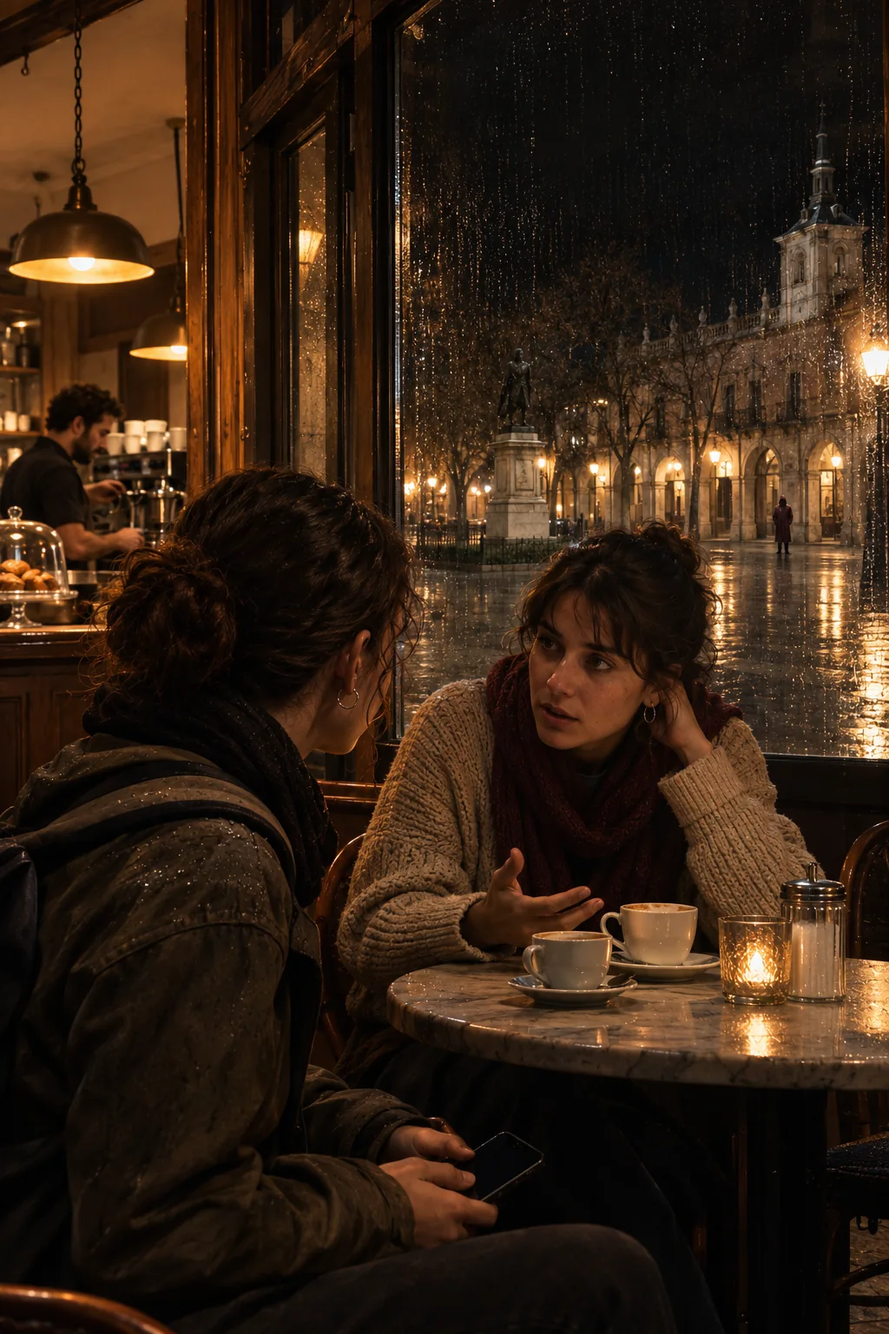
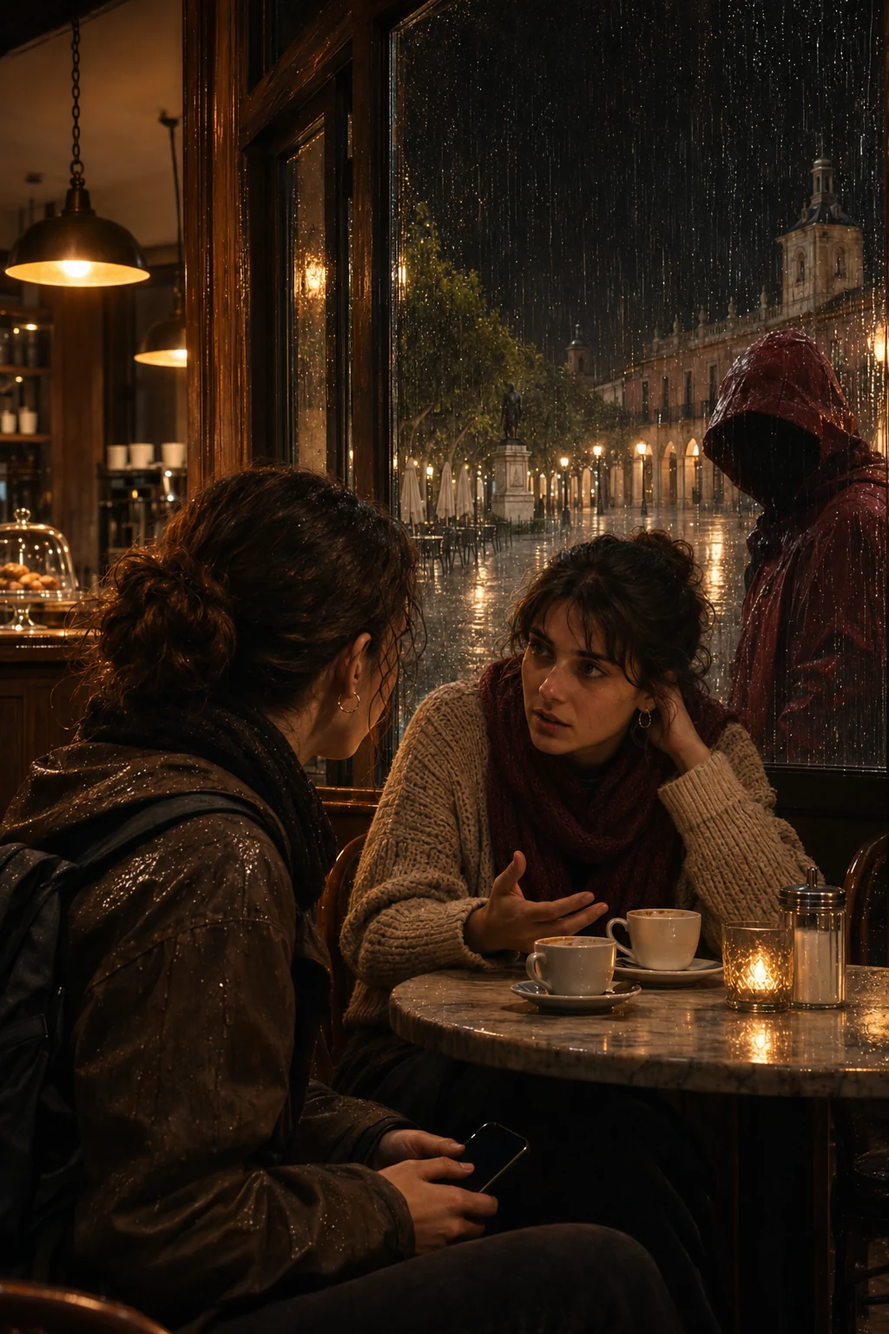
Rebuild Alcalá story scenes and continuity

diff --git a/script.js b/script.js
@@ -64,98 +64,94 @@ const copy = (es, en) => () => localized(es, en);
 
 const scenes = [
   {
-    image: 'assets/story/alcala-night.webp',
-    place: copy('CALLE MAYOR · CASA CERVANTES', 'CALLE MAYOR · CERVANTES BIRTHPLACE MUSEUM'),
-    kicker: copy('CALLE MAYOR · 23:17', 'CALLE MAYOR · 11:17 P.M.'),
-    title: copy('¿Subes esta foto ahora?', 'Do you post this photo now?'),
-    exploreHint: copy('Toca a la protagonista, la Casa Cervantes o al Cartógrafo. La pista aparecerá debajo.', 'Tap the woman, Cervantes House or the Cartographer. The clue will appear below.'),
-    body: copy('Son las 23:17. Estás en la Calle Mayor, frente a la Casa Natal de Cervantes, número 48. La foto puede mostrar dónde estás, aunque no añadas la ubicación.', 'It is 11:17 p.m. You are on Calle Mayor, outside Cervantes Birthplace Museum at number 48. The photo can show where you are, even without a location tag.'),
-    prompt: copy('La foto muestra dónde estás. ¿Qué haces?', 'The photo shows where you are. What do you do?'),
+    image: 'assets/story/alcala-night.webp?v=alcala-casa-20261124',
+    place: copy('CALLE MAYOR 48 \u00b7 CASA NATAL DE CERVANTES', '48 CALLE MAYOR \u00b7 CERVANTES BIRTHPLACE MUSEUM'),
+    kicker: copy('CALLE MAYOR \u00b7 23:17', 'CALLE MAYOR \u00b7 11:17 P.M.'),
+    title: copy('\u00bfPublicas la foto?', 'Do you post the photo?'),
+    exploreHint: copy('Toca la c\u00e1mara, la fachada o al Cart\u00f3grafo. Cada toque revela una pista.', 'Tap the camera, the fa\u00e7ade or the Cartographer. Each tap reveals a clue.'),
+    body: copy('Son las 23:17. Est\u00e1s frente a la Casa Natal de Cervantes, en el n\u00famero 48 de Calle Mayor. Has fotografiado la fachada. La hora y lo que aparece detr\u00e1s pueden revelar d\u00f3nde est\u00e1s.', 'It is 11:17 p.m. You are outside Cervantes Birthplace Museum at 48 Calle Mayor. You took a photo of the fa\u00e7ade. The time and background can reveal where you are.'),
+    prompt: copy('\u00bfQu\u00e9 haces con la foto?', 'What do you do with the photo?'),
     hotspots: [
-      { id: 'protagonist', label: copy('Tú', 'You'), x: 20, y: 45, align: 'right', response: copy('¡Flash! El Cartógrafo te acaba de hacer una foto desde el otro lado de la calle. Tú decides qué publicas y a quién pides ayuda.', 'Flash! The Cartographer just took your picture from across the street. You choose what to post and who to ask for help.') },
-      { id: 'landmark', label: copy('Casa Cervantes', 'Cervantes House'), x: 53, y: 46, align: 'center', response: copy('Estás frente a la Casa Natal de Cervantes, en Calle Mayor 48. El edificio muestra dónde hiciste la foto, aunque quites la ubicación.', 'You are outside Cervantes Birthplace Museum at 48 Calle Mayor. The building shows where you took the photo, even if you remove the location tag.') },
-      { id: 'cartographer', label: copy('El Cartógrafo', 'The Cartographer'), x: 74, y: 57, align: 'left', response: copy('Lo señalas. Se ríe. Parpadeas y ahora aparece detrás de ti, en el reflejo de una ventana. Sabe que lo has visto.', 'You point at him. He laughs. You blink, and now he is behind you in a window reflection. He knows you saw him.') }
+      { id: 'protagonist', label: copy('Tu m\u00f3vil', 'Your phone'), x: 28, y: 62, align: 'right', response: copy('El obturador suena en la calle mojada. En la foto quedan la fachada y la hora.', 'The shutter cuts through the wet street. The fa\u00e7ade and time are now in the photo.') },
+      { id: 'landmark', label: copy('La Casa de Cervantes', 'Cervantes House'), x: 51, y: 45, align: 'center', response: copy('La fachada de ladrillo y las figuras de bronce identifican la Casa Natal de Cervantes, en Calle Mayor 48.', 'The brick fa\u00e7ade and bronze figures identify Cervantes Birthplace Museum at 48 Calle Mayor.') },
+      { id: 'cartographer', label: copy('El Cart\u00f3grafo', 'The Cartographer'), x: 82, y: 48, align: 'left', response: copy('Levanta la cabeza bajo la capucha. No ves su cara. Una risa breve se mezcla con la lluvia.', 'He raises his hooded head. You cannot see his face. A short laugh blends into the rain.') }
     ],
     choices: [
-      { id: 'live-location', risk: 1, label: copy('Publicarla ahora y mostrar dónde estoy', 'Post it now and show where I am') },
-      { id: 'remove-location', risk: 0, label: copy('Publicarla sin decir dónde estoy', 'Post it without saying where I am') }
+      { id: 'live-location', risk: 1, label: copy('Publicarla ahora con mi ubicaci\u00f3n en directo', 'Post it now with my live location') },
+      { id: 'remove-location', risk: 0, label: copy('Quitar la ubicaci\u00f3n y publicarla sin etiqueta', 'Remove the location tag before posting') }
     ]
   },
   {
-    image: 'assets/story/alcala-reflection.webp?v=single-cartographer-20261124',
-    place: copy('CALLE MAYOR · CERCA DE CASA CERVANTES', 'CALLE MAYOR · NEAR CERVANTES HOUSE'),
-    kicker: copy('CALLE MAYOR · 23:24', 'CALLE MAYOR · 11:24 P.M.'),
-    title: copy('«Sé a qué hora vuelves».', '“I know what time you go home.”'),
-    exploreHint: copy('Toca sobre el móvil, la protagonista o el reflejo rojo. La pista aparecerá debajo.', 'Tap the phone, the woman or the red reflection. The clue will appear below.'),
-    body: () => cartographerNoticed
-        ? localized('Lo señalaste. Ahora aparece más cerca, en una ventana de la Calle Mayor. Te llega un mensaje: «Sé a qué hora vuelves».', 'You pointed him out. Now he appears closer, in a Calle Mayor window. A message arrives: “I know what time you go home.”')
-      : riskScore
-        ? localized('Publicaste la hora y el lugar. Frente a la Casa Natal te llega un mensaje: «Sé a qué hora vuelves».', 'You posted the time and place. Outside Cervantes House, a message arrives: “I know what time you go home.”')
-        : localized('Quitaste la ubicación, pero la foto muestra el lugar y la hora. Frente a la Casa Natal te llega un mensaje: «Sé a qué hora vuelves».', 'You removed the location tag, but the photo shows the place and time. Outside Cervantes House, a message arrives: “I know what time you go home.”'),
-    prompt: copy('Te pregunta a qué hora sales. ¿Se lo dices?', 'He asks what time you leave. Do you tell him?'),
+    image: 'assets/story/alcala-reflection.webp?v=alcala-mayor-20261124',
+    place: copy('CALLE MAYOR \u00b7 BAJO LOS SOPORTALES', 'CALLE MAYOR \u00b7 UNDER THE ARCADES'),
+    kicker: copy('CALLE MAYOR \u00b7 23:24', 'CALLE MAYOR \u00b7 11:24 P.M.'),
+    title: copy('\u00abS\u00e9 a qu\u00e9 hora vuelves\u00bb.', 'I know what time you come back.'),
+    exploreHint: copy('Toca el m\u00f3vil, a la protagonista o el reflejo rojo. La pista aparece debajo.', 'Tap the phone, the woman or the red reflection. The clue appears below.'),
+    body: () => riskScore > 0
+      ? localized('Sigues por los soportales de Calle Mayor. Publicaste la ubicaci\u00f3n en directo y una cuenta desconocida responde a tu historia: \u00abS\u00e9 a qu\u00e9 hora vuelves\u00bb.', 'You keep walking under Calle Mayor arcades. You shared your live location, and an unknown account replies to your story: I know what time you come back.')
+      : localized('Sigues por los soportales de Calle Mayor. Quitaste la etiqueta, pero la fachada y la hora siguen en la foto. Una cuenta desconocida responde: \u00abS\u00e9 a qu\u00e9 hora vuelves\u00bb.', 'You keep walking under Calle Mayor arcades. You removed the tag, but the fa\u00e7ade and time are still in the photo. An unknown account replies: I know what time you come back.'),
+    prompt: copy('Te pregunta a qu\u00e9 hora sales. \u00bfQu\u00e9 haces?', 'The account asks what time you leave. What do you do?'),
     hotspots: [
-      { id: 'protagonist', label: copy('Tú', 'You'), x: 20, y: 45, align: 'right', response: copy('Un destello cruza el cristal. Reconoces al Cartógrafo. No tienes que responder a su mensaje.', 'A flash crosses the glass. You recognize the Cartographer. You do not have to reply to his message.') },
-      { id: 'phone', label: copy('El móvil', 'The phone'), x: 51, y: 72, align: 'center', response: copy('El móvil vibra. La hora de la foto y el lugar pueden mostrar cuándo pasas por aquí. No hace falta entrar en tu móvil para saberlo.', 'Your phone buzzes. The photo time and place can show when you come here. No one needs to get into your phone to learn that.') },
-      { id: 'cartographer', label: copy('El reflejo', 'The reflection'), x: 79, y: 44, align: 'left', response: copy('Tocas el reflejo. Oyes su risa a tu espalda. En el cristal, se mueve antes que tú.', 'You touch the reflection. You hear him laugh behind you. In the glass, he moves before you do.') }
+      { id: 'protagonist', label: copy('T\u00fa', 'You'), x: 36, y: 63, align: 'right', response: copy('El reflejo rojo aparece a tu espalda. No tienes que contestar ni acercarte.', 'The red reflection appears behind you. You do not have to answer or go closer.') },
+      { id: 'phone', label: copy('El m\u00f3vil', 'The phone'), x: 62, y: 55, align: 'center', response: copy('El m\u00f3vil vibra. La foto muestra la hora y un lugar reconocible. Nadie ha entrado en tu tel\u00e9fono: basta con ver lo que publicaste.', 'Your phone vibrates. The photo shows the time and a recognizable place. No one accessed your phone; what you posted was enough.') },
+      { id: 'cartographer', label: copy('El reflejo', 'The reflection'), x: 86, y: 48, align: 'left', response: copy('Tocas el cristal. La figura roja se mueve antes que tu reflejo. Oyes una risa al otro lado de la ventana.', 'You touch the glass. The red figure moves before your reflection does. A laugh comes from the other side of the window.') }
     ],
     choices: [
-      { id: 'reply-routine', risk: 1, label: copy('Decirle a qué hora salgo', 'Tell him what time I leave') },
-      { id: 'block-save', risk: 0, label: copy('Guardar el mensaje y llamar a Paula', 'Save the message and call Paula') }
+      { id: 'reply-routine', risk: 1, label: copy('Decirle a qu\u00e9 hora suelo salir', 'Tell them what time I usually leave') },
+      { id: 'block-save', risk: 0, label: copy('Guardar el mensaje, bloquear la cuenta y llamar a Paula', 'Save the message, block the account and call Paula') }
     ]
   },
   {
-    image: 'assets/story/alcala-plaza-exterior.webp?v=wardrobe-rain-20261124',
+    image: 'assets/story/alcala-plaza-exterior.webp?v=alcala-plaza-20261124',
     ambience: 'street',
-    place: copy('PLAZA DE CERVANTES · CAFÉ ABIERTO', 'CERVANTES SQUARE · CAFÉ OPEN'),
-    kicker: copy('PLAZA DE CERVANTES · 23:32', 'CERVANTES SQUARE · 11:32 P.M.'),
-    title: copy('Hay un café abierto.', 'There is a café open.'),
-    exploreHint: copy('Toca el café, la protagonista o al Cartógrafo. La pista aparecerá debajo.', 'Tap the café, the woman or the Cartographer. The clue will appear below.'),
+    place: copy('PLAZA DE CERVANTES \u00b7 CAF\u00c9 DE LA PLAZA', 'PLAZA DE CERVANTES \u00b7 CAF\u00c9 ON THE SQUARE'),
+    kicker: copy('PLAZA DE CERVANTES \u00b7 23:32', 'PLAZA DE CERVANTES \u00b7 11:32 P.M.'),
+    title: copy('Paula ya viene.', 'Paula is on her way.'),
+    exploreHint: copy('Toca el caf\u00e9, el m\u00f3vil o la farola junto al Cart\u00f3grafo.', 'Tap the caf\u00e9, the phone or the lamppost beside the Cartographer.'),
     body: () => decisions.includes('block-save')
-      ? localized('Llegas a la Plaza de Cervantes. Paula te escribe: «Voy para allá. Espera dentro del café». El Cartógrafo te mira desde el otro lado de la plaza.', 'You reach Cervantes Square. Paula texts: “I’m coming. Wait inside the café.” The Cartographer watches you from across the square.')
-      : localized('Llegas a la Plaza de Cervantes. Hay un café abierto junto a la estatua. Nadie sabe que estás aquí. Te llega otro mensaje: «Te vi junto a la Casa de Cervantes».', 'You reach Cervantes Square. A café is open beside the statue. No one knows you are here. Another message arrives: “I saw you by Cervantes House.”'),
-    prompt: () => decisions.includes('block-save')
-      ? localized('Paula viene. ¿La esperas dentro del café o te vas sola?', 'Paula is coming. Do you wait inside the café or leave alone?')
-      : localized('El café está abierto. ¿Entras y llamas a Paula o te vas sola?', 'The café is open. Do you go in and call Paula or leave alone?'),
+      ? localized('Llegas a la Plaza de Cervantes. Ya llamaste a Paula y quedasteis en el caf\u00e9. Ella va de camino. Bajo los \u00e1rboles, ves al Cart\u00f3grafo junto a una farola.', 'You reach Plaza de Cervantes. You called Paula and agreed to meet at the caf\u00e9. She is on her way. Beneath the trees, you see the Cartographer beside a lamppost.')
+      : localized('Llegas a la Plaza de Cervantes. Le escribes a Paula y qued\u00e1is en el caf\u00e9. Ella va de camino. Bajo los \u00e1rboles, ves al Cart\u00f3grafo junto a una farola.', 'You reach Plaza de Cervantes. You message Paula and agree to meet at the caf\u00e9. She is on her way. Beneath the trees, you see the Cartographer beside a lamppost.'),
+    prompt: copy('\u00bfEsperas a Paula dentro o sigues sola?', 'Do you wait inside for Paula or keep walking alone?'),
     hotspots: [
-      { id: 'cafe', label: copy('El café', 'The café'), x: 21, y: 57, align: 'right', response: copy('La puerta del café se abre. Suena una campanilla. Hay gente dentro. Puedes pedir ayuda.', 'The café door opens. A bell rings. People are inside. You can ask for help.') },
-      { id: 'protagonist', label: copy('Tú', 'You'), x: 52, y: 75, align: 'center', response: copy('La plaza está iluminada. Puedes entrar al café y llamar a Paula.', 'The square is lit. You can go into the café and call Paula.') },
-      { id: 'cartographer', label: copy('El Cartógrafo', 'The Cartographer'), x: 75, y: 56, align: 'left', response: copy('La luz parpadea. Cuando vuelve, el Cartógrafo ya no está junto a la farola.', 'The light flickers. When it comes back on, the Cartographer is no longer by the lamp.') }
+      { id: 'cafe', label: copy('El caf\u00e9', 'The caf\u00e9'), x: 22, y: 59, align: 'right', response: copy('La puerta se abre y suena la campanilla. Hay clientes y personal dentro. Puedes esperar ah\u00ed a Paula.', 'The door opens and its bell rings. Customers and staff are inside. You can wait there for Paula.') },
+      { id: 'phone', label: copy('Tu m\u00f3vil', 'Your phone'), x: 35, y: 62, align: 'left', response: copy('Paula confirma que est\u00e1 a cinco minutos. Puedes compartir tu ubicaci\u00f3n solo con ella mientras llega.', 'Paula says she is five minutes away. You can share your location with her only while she gets here.') },
+      { id: 'cartographer', label: copy('La farola', 'The lamppost'), x: 78, y: 47, align: 'left', response: copy('La bombilla parpadea y zumba. Cuando la luz vuelve, el Cart\u00f3grafo ya no est\u00e1 junto a la farola.', 'The bulb flickers and buzzes. When the light returns, the Cartographer is no longer beside the lamppost.') }
     ],
-    choices: () => [
-      { id: 'go-cafe', risk: 0, label: copy(decisions.includes('block-save') ? 'Entrar al café y esperar a Paula' : 'Entrar al café y llamar a Paula', decisions.includes('block-save') ? 'Go into the café and wait for Paula' : 'Go into the café and call Paula') },
-      { id: 'take-shortcut', risk: 1, label: copy('Ir sola por Cardenal Sandoval y Rojas', 'Walk alone along Cardenal Sandoval y Rojas') }
+    choices: [
+      { id: 'go-cafe', risk: 0, label: copy('Entrar al caf\u00e9 y esperar a Paula', 'Go into the caf\u00e9 and wait for Paula') },
+      { id: 'take-shortcut', risk: 1, label: copy('Seguir sola por Cardenal Sandoval y Rojas', 'Continue alone along Cardenal Sandoval y Rojas') }
     ]
   },
   {
-    image: () => decisions.includes('go-cafe') ? 'assets/story/alcala-cafe.webp' : 'assets/story/alcala-portal.webp?v=wardrobe-rain-20261124',
+    image: () => decisions.includes('go-cafe') ? 'assets/story/alcala-cafe.webp?v=alcala-cafe-20261124' : 'assets/story/alcala-portal.webp?v=alcala-puerta-20261124',
     ambience: () => decisions.includes('go-cafe') ? 'cafe' : 'street',
-    place: () => localized(decisions.includes('go-cafe') ? 'PLAZA DE CERVANTES · CAFÉ' : 'CALLE CARDENAL SANDOVAL Y ROJAS · PORTAL', decisions.includes('go-cafe') ? 'CERVANTES SQUARE · CAFÉ' : 'CARDENAL SANDOVAL Y ROJAS · DOORWAY'),
-    kicker: () => localized(decisions.includes('go-cafe') ? 'PLAZA DE CERVANTES · 23:38' : 'SANDOVAL Y ROJAS · 23:41', decisions.includes('go-cafe') ? 'CERVANTES SQUARE · 11:38 P.M.' : 'SANDOVAL Y ROJAS · 11:41 P.M.'),
-    title: () => localized(decisions.includes('go-cafe') ? 'No estás sola.' : 'El atajo termina en una puerta.', decisions.includes('go-cafe') ? 'You are not alone.' : 'The shortcut ends at a doorway.'),
+    place: () => localized(decisions.includes('go-cafe') ? 'PLAZA DE CERVANTES \u00b7 CAF\u00c9' : 'PASEO CARDENAL SANDOVAL Y ROJAS \u00b7 PUERTA DE MADRID', decisions.includes('go-cafe') ? 'PLAZA DE CERVANTES \u00b7 CAF\u00c9' : 'PASEO CARDENAL SANDOVAL Y ROJAS \u00b7 PUERTA DE MADRID'),
+    kicker: () => localized(decisions.includes('go-cafe') ? 'PLAZA DE CERVANTES \u00b7 23:38' : 'PUERTA DE MADRID \u00b7 23:41', decisions.includes('go-cafe') ? 'PLAZA DE CERVANTES \u00b7 11:38 P.M.' : 'PUERTA DE MADRID \u00b7 11:41 P.M.'),
+    title: () => localized(decisions.includes('go-cafe') ? 'Paula est\u00e1 contigo.' : 'La farola falla.', decisions.includes('go-cafe') ? 'Paula is with you.' : 'The lamppost falters.'),
     exploreHint: () => decisions.includes('go-cafe')
-      ? localized('Toca a Paula, el mensaje o la ventana. La pista aparecerá debajo.', 'Tap Paula, the message or the window. The clue will appear below.')
-      : localized('Toca la puerta, la protagonista o al Cartógrafo. La pista aparecerá debajo.', 'Tap the door, the woman or the Cartographer. The clue will appear below.'),
+      ? localized('Toca a Paula, el mensaje o la ventana. Cada toque activa una pista.', 'Tap Paula, the message or the window. Each tap reveals a clue.')
+      : localized('Toca el arco, a la protagonista o al Cart\u00f3grafo. Cada toque activa una pista.', 'Tap the arch, the woman or the Cartographer. Each tap reveals a clue.'),
     body: () => decisions.includes('go-cafe')
-      ? localized('Entras al café. Paula llega y se sienta contigo. Puedes compartir tu ubicación solo con ella hasta llegar a casa.', 'You go into the café. Paula arrives and sits with you. You can share your location with her only until you get home.')
-      : localized('Vas por Cardenal Sandoval y Rojas. El portal está abierto, oscuro y vacío. La foto y la hora dieron pistas al Cartógrafo. Puedes volver a la plaza, donde hay luz y gente.', 'You walk along Cardenal Sandoval y Rojas. The doorway is open, dark and empty. The photo and time gave the Cartographer clues. You can return to the lit, busy square.'),
+      ? localized('Entras al caf\u00e9 de la Plaza de Cervantes. Paula llega y se sienta contigo. A trav\u00e9s del cristal ves al Cart\u00f3grafo fuera, bajo la lluvia. Puedes compartir tu ubicaci\u00f3n solo con Paula hasta llegar a casa.', 'You enter the caf\u00e9 on Plaza de Cervantes. Paula arrives and sits with you. Through the glass, you see the Cartographer outside in the rain. You can share your location only with Paula until you get home.')
+      : localized('Sigues por el Paseo de Cardenal Sandoval y Rojas hasta la Puerta de Madrid. El arco de piedra aparece al final del paseo. La farola parpadea y una sombra roja cruza el otro lado. Puedes volver hacia la plaza y buscar a Paula.', 'You follow Paseo de Cardenal Sandoval y Rojas to Puerta de Madrid. The stone arch appears at the end of the promenade. The lamppost flickers and a red shadow crosses the other side. You can turn back toward the square and find Paula.'),
     prompt: () => decisions.includes('go-cafe')
-      ? localized('Paula te escribe otra vez. ¿Qué haces?', 'Paula texts you again. What do you do?')
-      : localized('Llegas al portal. ¿Qué haces?', 'You reach the doorway. What do you do?'),
+      ? localized('Paula est\u00e1 a tu lado. \u00bfQu\u00e9 haces con el mensaje?', 'Paula is beside you. What do you do with the message?')
+      : localized('Est\u00e1s frente a la Puerta de Madrid. \u00bfQu\u00e9 haces?', 'You are at Puerta de Madrid. What do you do?'),
     hotspots: () => decisions.includes('go-cafe') ? [
-      { id: 'friend', label: copy('Paula', 'Paula'), x: 60, y: 58, align: 'right', response: copy('Paula se queda contigo. Cuéntale qué pasó y qué necesitas. No tienes que darle tus contraseñas.', 'Paula stays with you. Tell her what happened and what you need. You do not need to give her your passwords.') },
-      { id: 'phone', label: copy('El mensaje', 'The message'), x: 28, y: 84, align: 'left', response: copy('El mensaje pregunta dónde estás. No contestes. Guarda una captura.', 'The message asks where you are. Do not reply. Save a screenshot.') },
-      { id: 'cartographer', label: copy('La ventana', 'The window'), x: 88, y: 45, align: 'left', response: copy('Oyes pasos que se alejan. Publicar una foto no da permiso para seguirte. La responsabilidad es de quien te sigue.', 'You hear footsteps fading away. Posting a photo does not give anyone permission to follow you. The person following you is responsible.') }
+      { id: 'friend', label: copy('Paula', 'Paula'), x: 62, y: 57, align: 'right', response: copy('Paula se queda contigo. Cu\u00e9ntale qu\u00e9 pas\u00f3 y qu\u00e9 necesitas. No tienes que compartir tus contrase\u00f1as.', 'Paula stays with you. Tell her what happened and what you need. You do not have to share your passwords.') },
+      { id: 'phone', label: copy('El mensaje', 'The message'), x: 29, y: 86, align: 'left', response: copy('Guarda una captura y bloquea la cuenta. El mensaje no le da derecho a acercarse a ti.', 'Save a screenshot and block the account. The message does not give them the right to approach you.') },
+      { id: 'cartographer', label: copy('La ventana', 'The window'), x: 88, y: 46, align: 'left', response: copy('Los pasos se alejan por la plaza. Publicar una foto no da permiso para seguirte. La responsabilidad es de quien te sigue.', 'Footsteps fade across the square. Posting a photo does not give anyone permission to follow you. The person following you is responsible.') }
     ] : [
-      { id: 'protagonist', label: copy('Tú', 'You'), x: 22, y: 47, align: 'right', response: copy('Aléjate del portal. Llama a Paula y vuelve a la plaza iluminada.', 'Step away from the doorway. Call Paula and return to the lit square.') },
-      { id: 'door', label: copy('La puerta', 'The door'), x: 88, y: 69, align: 'left', response: copy('La puerta se abre un poco. Dentro está oscuro. Puedes volver a la plaza o ir al café, donde hay gente.', 'The door opens a little. It is dark inside. You can return to the square or go to the café, where there are people.') },
-      { id: 'cartographer', label: copy('El Cartógrafo', 'The Cartographer'), x: 65, y: 49, align: 'left', response: copy('Oyes su respiración bajo la capucha. Está al otro lado de la calle. Solo sabe lo que has compartido; no puede leer tu móvil.', 'You hear him breathe under the hood. He is across the street. He only knows what you have shared; he cannot read your phone.') }
+      { id: 'protagonist', label: copy('T\u00fa', 'You'), x: 27, y: 68, align: 'right', response: copy('Gira hacia la plaza iluminada. Llama a Paula y vuelve por el paseo, donde hay m\u00e1s gente.', 'Turn back toward the lit square. Call Paula and return along the promenade, where more people are around.') },
+      { id: 'gate', label: copy('Puerta de Madrid', 'Puerta de Madrid'), x: 52, y: 38, align: 'center', response: copy('El arco est\u00e1 abierto a la calle. La farola falla y una sombra roja cruza el otro lado. No tienes que seguir adelante.', 'The arch opens onto the street. The lamppost falters and a red shadow crosses the other side. You do not have to go on.') },
+      { id: 'cartographer', label: copy('El Cart\u00f3grafo', 'The Cartographer'), x: 60, y: 62, align: 'left', response: copy('Su respiraci\u00f3n llega desde el otro lado del arco. Bajo la capucha no hay un rostro visible. Retrocede hacia la plaza y llama a Paula.', 'You hear him breathe from the other side of the arch. His face is hidden under the hood. Step back toward the square and call Paula.') }
     ],
     choices: () => decisions.includes('go-cafe') ? [
-      { id: 'share-private', risk: 0, label: copy('Guardar el mensaje y compartir mi ubicación solo con Paula', 'Save the message and share my location with Paula only') },
-      { id: 'post-cafe', risk: 1, label: copy('Publicar otra foto del café ahora', 'Post another photo of the café now') }
+      { id: 'share-private', risk: 0, label: copy('Guardar el mensaje y compartir mi ubicaci\u00f3n solo con Paula', 'Save the message and share my location with Paula only') },
+      { id: 'post-cafe', risk: 1, label: copy('Publicar otra foto del caf\u00e9 ahora', 'Post another photo of the caf\u00e9 now') }
     ] : [
-      { id: 'return-light', risk: 0, label: copy('Volver a la plaza e ir al café para llamar a Paula', 'Return to the square and go to the café to call Paula') },
-      { id: 'open-portal', risk: 1, label: copy('Entrar sola en el portal para esconderme', 'Go into the doorway alone to hide') }
+      { id: 'return-light', risk: 0, label: copy('Volver a la plaza y llamar a Paula', 'Return to the square and call Paula') },
+      { id: 'open-portal', risk: 1, label: copy('Seguir sola bajo el arco de la Puerta de Madrid', 'Continue alone beneath the Puerta de Madrid arch') }
     ]
   }
 ];
@@ -422,7 +418,6 @@ function scheduleSceneAudio(index) {
     queueSceneAudio(index, 2400, 'coffeeCup', 0.34);
   } else if (index === 3) {
     queueSceneAudio(index, 1200, 'suspenseAmbience', 0.17);
-    queueSceneAudio(index, 3100, 'doorCreak', 0.28);
     queueSceneAudio(index, 6500, 'cartographerBreath', 0.36);
     queueSceneAudio(index, 12400, 'footsteps', 0.32);
   }
@@ -482,8 +477,8 @@ function triggerPhotoReaction(button, hotspot) {
 
 function showLampFailure() {
   window.clearTimeout(sceneInterruptionEffectTimer);
-  sceneImageWrap.style.setProperty('--lamp-x', '76%');
-  sceneImageWrap.style.setProperty('--lamp-y', '37%');
+  sceneImageWrap.style.setProperty('--lamp-x', currentScene === 3 && !decisions.includes('go-cafe') ? '15%' : '79%');
+  sceneImageWrap.style.setProperty('--lamp-y', currentScene === 2 ? '14%' : currentScene === 3 && !decisions.includes('go-cafe') ? '42%' : '37%');
   sceneImageWrap.classList.remove('is-lamp-failure');
   void sceneImageWrap.offsetWidth;
   sceneImageWrap.classList.add('is-lamp-failure');
@@ -494,8 +489,8 @@ function scheduleSceneInterruption(index) {
   const interruption = [
     {
       delay: 2600,
-      title: copy('FLASH AL OTRO LADO DE LA CALLE', 'A FLASH ACROSS THE STREET'),
-      message: copy('El Cartógrafo acaba de hacerte una foto.', 'The Cartographer has just taken your picture.'),
+      title: copy('EL OBTURADOR CORTA LA LLUVIA', 'THE SHUTTER CUTS THROUGH THE RAIN'),
+      message: copy('La fachada y la hora quedan en la imagen.', 'The fa\u00e7ade and time are now in the image.'),
       effect: 'flash',
       sound: 'camera'
     },
@@ -516,7 +511,7 @@ function scheduleSceneInterruption(index) {
     decisions.includes('take-shortcut') ? {
       delay: 1800,
       title: copy('LA FAROLA FALLA', 'THE STREETLIGHT FALTERS'),
-      message: copy('Algo se mueve al otro lado del portal.', 'Something moves across the doorway.'),
+      message: copy('La farola se apaga. Una sombra roja cruza el arco.', 'The lamppost goes dark. A red shadow crosses the arch.'),
       effect: 'lamp',
       sound: 'lamp'
     } : null
@@ -527,7 +522,8 @@ function scheduleSceneInterruption(index) {
     if (story.hidden || document.hidden || currentScene !== index) return;
     if ((index === 0 && activeHotspotId === 'protagonist')
       || (index === 1 && activeHotspotId === 'phone')
-      || (index === 3 && activeHotspotId === 'cartographer')) return;
+      || (index === 2 && activeHotspotId === 'cartographer')
+      || (index === 3 && ['cartographer', 'gate'].includes(activeHotspotId))) return;
 
     const label = document.createElement('span');
     label.className = 'scene-interruption__label';
@@ -644,44 +640,44 @@ function renderEnding({ languageRefresh = false } = {}) {
   textLayoutController = undefined;
   const endedInCafe = ['share-private', 'post-cafe', 'return-light'].includes(lastDecision);
   const choseSupport = ['share-private', 'return-light'].includes(lastDecision);
-  const finalImage = endedInCafe ? 'assets/story/alcala-cafe.webp' : 'assets/story/alcala-portal.webp?v=wardrobe-rain-20261124';
+  const finalImage = endedInCafe ? 'assets/story/alcala-cafe.webp?v=alcala-cafe-20261124' : 'assets/story/alcala-portal.webp?v=alcala-puerta-20261124';
   if (!languageRefresh) setAmbientTrack(endedInCafe ? 'cafe' : 'street');
   endingBackdrop.style.backgroundImage = `url("${finalImage}")`;
-  endingKicker.textContent = localized(endedInCafe ? 'PLAZA DE CERVANTES · CAFÉ · 23:48' : 'CARDENAL SANDOVAL Y ROJAS · 23:48', endedInCafe ? 'CERVANTES SQUARE · CAFÉ · 11:48 P.M.' : 'CARDENAL SANDOVAL Y ROJAS · 11:48 P.M.');
+  endingKicker.textContent = localized(endedInCafe ? 'PLAZA DE CERVANTES \u00b7 CAF\u00c9 \u00b7 23:48' : 'PUERTA DE MADRID \u00b7 23:48', endedInCafe ? 'PLAZA DE CERVANTES \u00b7 CAF\u00c9 \u00b7 11:48 P.M.' : 'PUERTA DE MADRID \u00b7 11:48 P.M.');
   endingTitle.innerHTML = lastDecision === 'post-cafe'
     ? localized('La foto<br><em>da otra pista.</em>', 'The photo<br><em>gives another clue.</em>')
     : lastDecision === 'return-light'
       ? localized('Volviste<br><em>a la plaza.</em>', 'You went back<br><em>to the square.</em>')
       : choseSupport
         ? localized('Llegaste<br><em>con ayuda.</em>', 'You got there<br><em>with help.</em>')
-        : localized('Entraste sola<br><em>al portal.</em>', 'You went inside<br><em>alone.</em>');
+        : localized('Seguiste sola<br><em>bajo el arco.</em>', 'You continued<br><em>under the arch.</em>');
   endingOutcome.textContent = lastDecision === 'post-cafe'
-    ? localized('Publicaste otra foto. Se ve qué café es y a qué hora estás allí. Eso no te hace culpable. Nadie tiene derecho a seguirte.', 'You posted another photo. It shows which café you are at and what time it is. That does not make you guilty. No one has the right to follow you.')
+    ? localized('Publicaste otra foto desde el caf\u00e9 y se reconoce la Plaza. Eso no te hace culpable. Nadie tiene derecho a seguirte ni a invadir tu intimidad.', 'You posted another photo from the caf\u00e9, and the square is recognizable. That does not make you guilty. No one has the right to follow you or invade your privacy.')
     : lastDecision === 'open-portal'
-      ? localized('El portal estaba oscuro y vacío. Puedes volver a la plaza y pedir ayuda. El Cartógrafo es responsable de seguirte. Tú no tienes la culpa.', 'The doorway was dark and empty. You can return to the square and ask for help. The Cartographer is responsible for following you. It is not your fault.')
+      ? localized('Seguiste sola bajo el arco de la Puerta de Madrid. El Cart\u00f3grafo es responsable de haberte seguido. Publicar una foto no te hace culpable ni le da permiso para invadir tu intimidad.', 'You continued alone beneath the Puerta de Madrid arch. The Cartographer is responsible for following you. Posting a photo does not make you guilty or give him permission to invade your privacy.')
       : riskScore === 0
-        ? localized('Quitaste la ubicación, no dijiste a qué hora salías y pediste ayuda. Así diste menos pistas. Todas las personas tienen derecho a la intimidad.', 'You removed the location, did not say what time you would leave and asked for help. You gave away fewer clues. Everyone has the right to privacy.')
+        ? localized('Quitaste la ubicaci\u00f3n en directo, no compartiste tu rutina y pediste apoyo. Diste menos pistas. Todas las personas tienen derecho a la intimidad.', 'You removed live location, kept your routine private and asked for support. You shared fewer clues. Everyone has a right to privacy.')
         : choseSupport
-          ? localized('Alguien vio la foto. Cambiaste de rumbo y buscaste compañía. Publicar una foto no da permiso para seguirte. La culpa es de quien lo hace.', 'Someone saw the photo. You changed course and found company. Posting a photo does not give anyone permission to follow you. It is their fault.')
-          : localized('El Cartógrafo juntó la hora, el lugar y tus fotos para saber por dónde ibas. Esta historia es inventada. Publicar una foto no da permiso para seguirte.', 'The Cartographer used the time, place and your photos to work out where you were going. This story is fictional. Posting a photo does not give anyone permission to follow you.');
+          ? localized('Cambiaste de rumbo y buscaste compa\u00f1\u00eda. Publicar una foto no da permiso para seguirte. La responsabilidad es de quien lo hace.', 'You changed course and found company. Posting a photo does not give anyone permission to follow you. The person doing it is responsible.')
+          : localized('El Cart\u00f3grafo junt\u00f3 la hora, el lugar y tus publicaciones para deducir tu recorrido. Esta historia es inventada. Compartir una imagen nunca da permiso para seguirte.', 'The Cartographer combined the time, place and your posts to work out your route. This story is fictional. Sharing an image never gives anyone permission to follow you.');
   const answerLabels = {
-    'live-location': copy('publiqué mi ubicación', 'posted my location'),
-    'remove-location': copy('publiqué sin decir dónde estaba', 'posted without saying where I was'),
-    'reply-routine': copy('dije a qué hora salgo', 'said what time I leave'),
-    'block-save': copy('guardé el mensaje y llamé a Paula', 'saved the message and called Paula'),
-    'go-cafe': copy('entré al café', 'went into the café'),
-    'take-shortcut': copy('fui sola por la otra calle', 'took the other street alone'),
-    'share-private': copy('compartí mi ubicación solo con Paula', 'shared my location with Paula only'),
-    'post-cafe': copy('publiqué otra foto del café', 'posted another photo of the café'),
-    'return-light': copy('volví a la plaza y llamé a Paula', 'returned to the square and called Paula'),
-    'open-portal': copy('entré sola al portal', 'went into the doorway alone')
+    'live-location': copy('publiqu\u00e9 con mi ubicaci\u00f3n en directo', 'posted with my live location'),
+    'remove-location': copy('publiqu\u00e9 sin etiqueta de ubicaci\u00f3n', 'posted without a location tag'),
+    'reply-routine': copy('dije a qu\u00e9 hora suelo salir', 'said what time I usually leave'),
+    'block-save': copy('guard\u00e9 el mensaje, bloque\u00e9 la cuenta y llam\u00e9 a Paula', 'saved the message, blocked the account and called Paula'),
+    'go-cafe': copy('entr\u00e9 al caf\u00e9 y esper\u00e9 a Paula', 'went into the caf\u00e9 and waited for Paula'),
+    'take-shortcut': copy('segu\u00ed sola por Cardenal Sandoval y Rojas', 'continued alone along Cardenal Sandoval y Rojas'),
+    'share-private': copy('compart\u00ed mi ubicaci\u00f3n solo con Paula', 'shared my location with Paula only'),
+    'post-cafe': copy('publiqu\u00e9 otra foto del caf\u00e9', 'posted another photo from the caf\u00e9'),
+    'return-light': copy('volv\u00ed a la plaza y llam\u00e9 a Paula', 'returned to the square and called Paula'),
+    'open-portal': copy('segu\u00ed sola bajo el arco de la Puerta de Madrid', 'continued alone beneath the Puerta de Madrid arch')
   };
-  const answerRoute = decisions.map((decision, index) => `${index + 1}. ${answerLabels[decision] ? sceneValue(answerLabels[decision]) : localized('elegí una opción', 'chose an option')}`).join(' · ');
+  const answerRoute = decisions.map((decision, index) => `${index + 1}. ${answerLabels[decision] ? sceneValue(answerLabels[decision]) : localized('eleg\u00ed una opci\u00f3n', 'chose an option')}`).join(' \u00b7 ');
   const endingLabels = {
-    'share-private': copy('Terminé acompañada en la cafetería.', 'I ended up with company at the café.'),
-    'post-cafe': copy('Llegué al café y publiqué otra foto.', 'I reached the café and posted another photo.'),
-    'return-light': copy('Volví a la plaza iluminada.', 'I returned to the lit square.'),
-    'open-portal': copy('Entré sola al portal.', 'I went into the doorway alone.')
+    'share-private': copy('Termin\u00e9 acompa\u00f1ada en el caf\u00e9.', 'I ended up with company at the caf\u00e9.'),
+    'post-cafe': copy('Llegu\u00e9 al caf\u00e9 y publiqu\u00e9 otra foto.', 'I reached the caf\u00e9 and posted another photo.'),
+    'return-light': copy('Volv\u00ed a la Plaza de Cervantes.', 'I returned to Plaza de Cervantes.'),
+    'open-portal': copy('Segu\u00ed sola bajo el arco de la Puerta de Madrid.', 'I continued alone beneath the Puerta de Madrid arch.')
   };
   const endingLabel = endingLabels[lastDecision] ? sceneValue(endingLabels[lastDecision]) : localized('Mi recorrido terminó en Alcalá.', 'My story ended in Alcalá.');
   shareSummary.textContent = `${t('restartSharePrefix')} ${answerRoute}. ${endingLabel} ${t('shareEndingTail')}`;
@@ -777,10 +773,11 @@ sceneHotspots.addEventListener('click', (event) => {
     sceneImageWrap.classList.remove('is-disturbed');
     sceneHotspots.classList.remove('is-disturbed');
     void sceneImageWrap.offsetWidth;
+    sceneImageWrap.style.setProperty('--threat-x', currentScene === 3 && !decisions.includes('go-cafe') ? '60%' : currentScene === 3 ? '88%' : currentScene === 2 ? '78%' : '84%');
     sceneImageWrap.classList.add('is-disturbed');
     sceneHotspots.classList.add('is-disturbed');
   }
-  if (hotspot.id === 'door') {
+  if (hotspot.id === 'gate') {
     sceneImageWrap.classList.remove('is-door-touched');
     sceneHotspots.classList.remove('is-door-touched');
     void sceneImageWrap.offsetWidth;
@@ -797,9 +794,10 @@ sceneHotspots.addEventListener('click', (event) => {
     }
     else if (currentScene === 3 && !decisions.includes('go-cafe')) playCartographerBreath();
     else if (currentScene !== 3 || decisions.includes('go-cafe')) playFootsteps(0.58);
-  } else if (hotspot.id === 'door') {
-    navigator.vibrate?.(42);
-    playDoorCreak();
+  } else if (hotspot.id === 'gate') {
+    showLampFailure();
+    navigator.vibrate?.([24, 38, 24]);
+    playLampFlicker();
   } else if (hotspot.id === 'protagonist') {
     navigator.vibrate?.(18);
     if (currentScene < 2) {
@@ -815,7 +813,6 @@ sceneHotspots.addEventListener('click', (event) => {
     playPhoneVibration();
   } else if (hotspot.id === 'landmark') {
     navigator.vibrate?.(14);
-    playCameraFlash(0.32);
   } else if (hotspot.id === 'friend') {
     navigator.vibrate?.(14);
     playCoffeeCup();
@@ -861,10 +858,10 @@ choices.addEventListener('click', (event) => {
   announce('choice', { choice: lastDecision, risk: riskScore, scene: currentScene + 1 });
   navigator.vibrate?.(Number(button.dataset.risk) ? [35, 45, 70] : 24);
   if (lastDecision === 'go-cafe' && !cafeEntranceRang) playCafeDoorbell();
-  else if (lastDecision === 'live-location') playCameraFlash();
+  else if (lastDecision === 'live-location') playPhoneVibration();
   else if (['take-shortcut', 'return-light'].includes(lastDecision)) playFootsteps();
-  else if (['block-save', 'post-cafe'].includes(lastDecision)) playCameraFlash();
-  else if (lastDecision === 'open-portal') playDoorCreak();
+  else if (['block-save', 'post-cafe'].includes(lastDecision)) playPhoneVibration();
+  else if (lastDecision === 'open-portal') playFootsteps();
 });
 continueButton.addEventListener('click', showNextScene);
 document.querySelector('#restart-story').addEventListener('click', restart);

diff --git a/styles.css b/styles.css
@@ -713,7 +713,7 @@ body { background:#080606; color:#f2e8df; }
 
 .cinematic-story { position:relative; isolation:isolate; min-height:100svh; overflow:hidden; display:flex; align-items:flex-end; padding:clamp(128px,20vh,190px) clamp(24px,8vw,108px) max(44px,env(safe-area-inset-bottom)); background:#0a0707; color:#f6eee8; }
 .story__image-wrap { position:absolute; z-index:-2; inset:0; overflow:hidden; background:#080606; }
-.story__image { display:block; width:100%; height:100%; min-height:100svh; object-fit:cover; object-position:center 48%; filter:brightness(.68) saturate(.76); transform:scale(1.015); }
+.story__image { display:block; width:100%; height:100%; min-height:100svh; object-fit:cover; object-position:center 48%; filter:brightness(.76) saturate(.8); transform:scale(1.015); }
 .story__film-grain { position:absolute; inset:0; opacity:.22; pointer-events:none; background:linear-gradient(0deg,rgba(3,2,2,.82),transparent 75%),linear-gradient(90deg,rgba(4,2,2,.68),transparent 88%),repeating-linear-gradient(0deg,transparent 0 3px,rgba(255,255,255,.024) 4px,transparent 5px); mix-blend-mode:screen; }
 .story__topline { position:absolute; top:90px; left:clamp(24px,8vw,108px); right:clamp(24px,8vw,108px); display:flex; justify-content:space-between; color:#f0d8ca; font:600 .64rem Consolas,monospace; letter-spacing:.11em; text-shadow:0 2px 10px #000; }
 .story__topline span:first-child { max-width:65%; overflow:hidden; text-overflow:ellipsis; white-space:nowrap; }
@@ -725,7 +725,7 @@ body { background:#080606; color:#f2e8df; }
 .story__explore-hint { margin:8px 0 3px; color:#f1b9aa; font:700 .62rem/1.2 Consolas,monospace; letter-spacing:.1em; text-transform:uppercase; }
 .story__clue { margin:11px 0; padding:9px 11px; border-left:2px solid #e32127; background:rgba(8,5,5,.82); color:#faeee6; font-size:.78rem; line-height:1.42; }
 .story__image-wrap.is-disturbed { animation:story-contact .55s ease-out; }
-.story__image-wrap.is-disturbed .story__image { transform-origin:76% 48%; animation:cartographer-lunge .88s cubic-bezier(.18,.8,.2,1); }
+.story__image-wrap.is-disturbed .story__image { transform-origin:var(--threat-x,76%) 48%; animation:cartographer-lunge .88s cubic-bezier(.18,.8,.2,1); }
 .story__hotspots.is-disturbed { animation:story-contact .55s ease-out; }
 .story__image-wrap.is-door-touched { animation:door-response .42s ease-out; }
 .story__image-wrap.is-door-touched .story__image { animation:door-response-image .42s ease-out; }

diff --git a/CREDITOS.md b/CREDITOS.md
@@ -2,16 +2,16 @@
 
 ## Música y efectos
 
-- La ambientación cambia de una calle urbana mojada a un café con gente según la escena. Una base suave de [Forest Mist Whispers, de Alejandro Magaña (A. M.)](https://mixkit.co/free-stock-music/mood/calm/) suena con mayor claridad cuando las decisiones reducen el riesgo; una capa de tonos graves generada con Web Audio añade tensión cuando aumenta.
-- Cada efecto sigue la acción: obturador al capturar una imagen, pasos sobre calle mojada al avanzar o seguir a la protagonista, risa del Cartógrafo cuando aparece o se acerca en los primeros encuentros, campanilla y voces al entrar en el café, taza en la mesa junto a Paula y puerta al tocar el picaporte. La mezcla baja la música y el ambiente durante cada efecto.
-- Los efectos al tocar siguen activos aunque se apague la música. Las fuentes y los términos de la licencia están en [`assets/audio/FUENTES.md`](assets/audio/FUENTES.md).
+- La ambientación cambia de la calle mojada al café con gente. Una base suave de [Forest Mist Whispers, de Alejandro Magaña (A. M.)](https://mixkit.co/free-stock-music/mood/calm/) gana presencia cuando las decisiones reducen el riesgo; una capa de tonos graves generada con Web Audio añade tensión cuando aumenta.
+- Cada efecto coincide con algo visible: obturador al hacer la foto; vibración del móvil al recibir un mensaje; risa o respiración del Cartógrafo; zumbido y parpadeo de la farola en la Plaza de Cervantes y junto a la Puerta de Madrid; pasos sobre el pavimento mojado; campanilla y taza al entrar y sentarte con Paula. La mezcla baja la música y el ambiente durante cada efecto.
+- Los efectos al tocar siguen activos aunque se apague la música. Las fuentes y las licencias están en [`assets/audio/FUENTES.md`](assets/audio/FUENTES.md).
 
 ## Escenas fotográficas
 
-- `assets/story/cartografo-portada.webp`, `cartografo-horizontal.webp`, `alcala-night.webp`, `alcala-reflection.webp`, `alcala-plaza-exterior.webp`, `alcala-portal.webp` y `alcala-cafe.webp` son imágenes creadas con ImageGen para esta ficción interactiva. La tercera escena muestra la plaza y la entrada de la cafetería desde fuera; al entrar, la historia pasa al interior.
-- En la portada, un movimiento lento de cámara y dos pequeños tirones de imagen sugieren una presencia que observa; se desactivan si el dispositivo solicita movimiento reducido.
-- Son recreaciones visuales ambientadas en Alcalá de Henares; no son fotografías documentales ni representan hechos o personas reales. La página lo indica junto a la historia.
-- Las imágenes se guardan en el propio repositorio para cargar desde GitHub Pages sin depender de un servicio externo.
+- `assets/story/cartografo-portada.webp`, `cartografo-horizontal.webp`, `alcala-night.webp`, `alcala-reflection.webp`, `alcala-plaza-exterior.webp`, `alcala-portal.webp` y `alcala-cafe.webp` son recreaciones generadas para esta ficción. Se usaron capturas aportadas por el autor y referencias de ubicación como guía visual. La primera escena muestra la fachada de la Casa Natal de Cervantes y las figuras de bronce; la segunda, los soportales de Calle Mayor; la tercera, la plaza abierta con árboles, soportales y farola. En la ruta del café, Paula está sentada con la protagonista y el Cartógrafo se ve fuera, tras el cristal. La otra ruta continúa por el Paseo de Cardenal Sandoval y Rojas hasta el arco real de la Puerta de Madrid.
+- Son imágenes de ficción ambientadas en Alcalá de Henares, no fotografías documentales ni hechos o personas reales. La página lo indica junto a la historia. La protagonista no tiene nombre; Paula es su amiga.
+- En la portada, un movimiento lento de cámara y dos pequeños tirones sugieren una presencia que observa; se desactivan si el dispositivo solicita movimiento reducido.
+- Las imágenes están en el repositorio para que GitHub Pages no dependa de servicios externos.
 - Referencias de ubicación: [Museo Casa Natal de Cervantes, Calle Mayor 48](https://www.turismoalcala.es/turismo/museo-casa-natal-de-cervantes/) y [Puerta de Madrid y recinto amurallado](https://www.turismoalcala.es/turismo/puerta-de-madrid-alcala-de-henares-y-recinto-amurallado/), según Turismo de Alcalá.
 
 ## Referencias de interacción revisadas en GitHub
